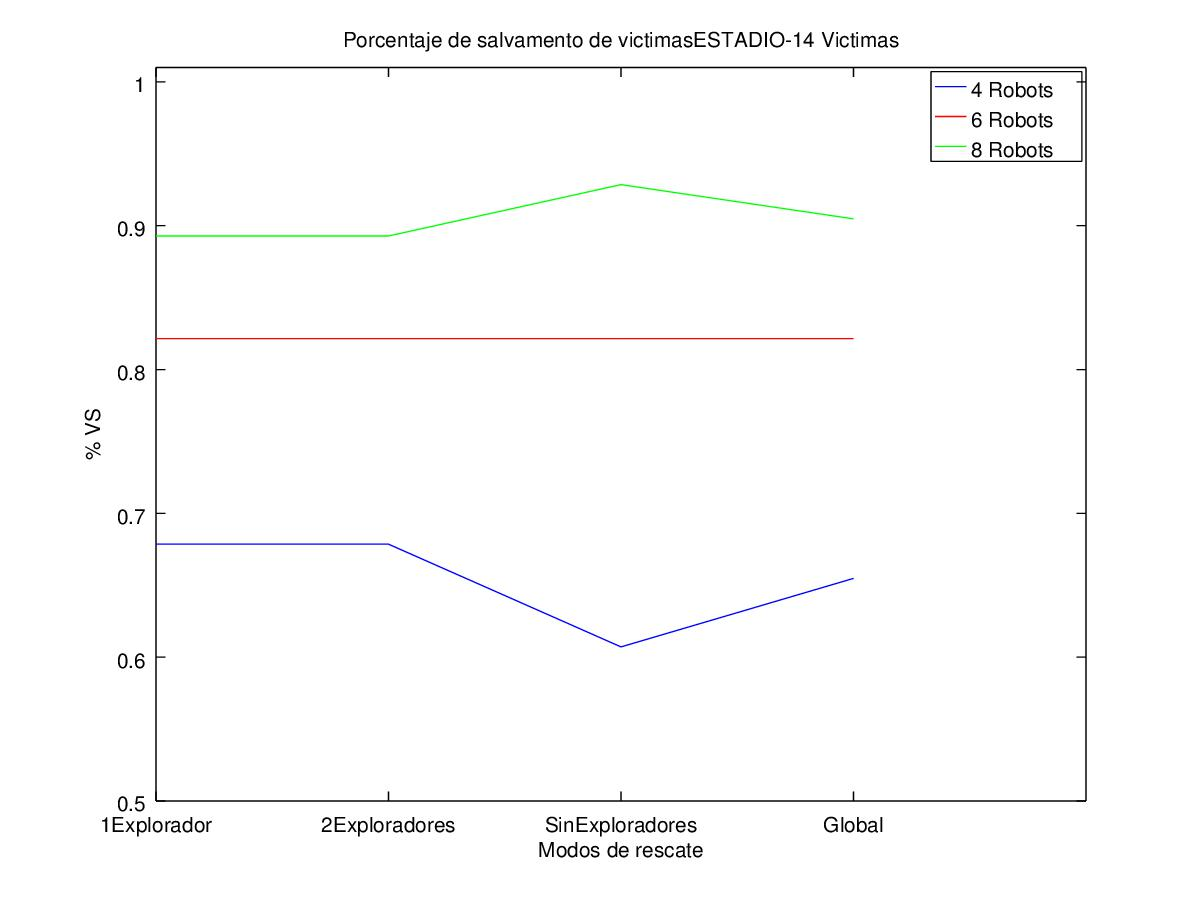
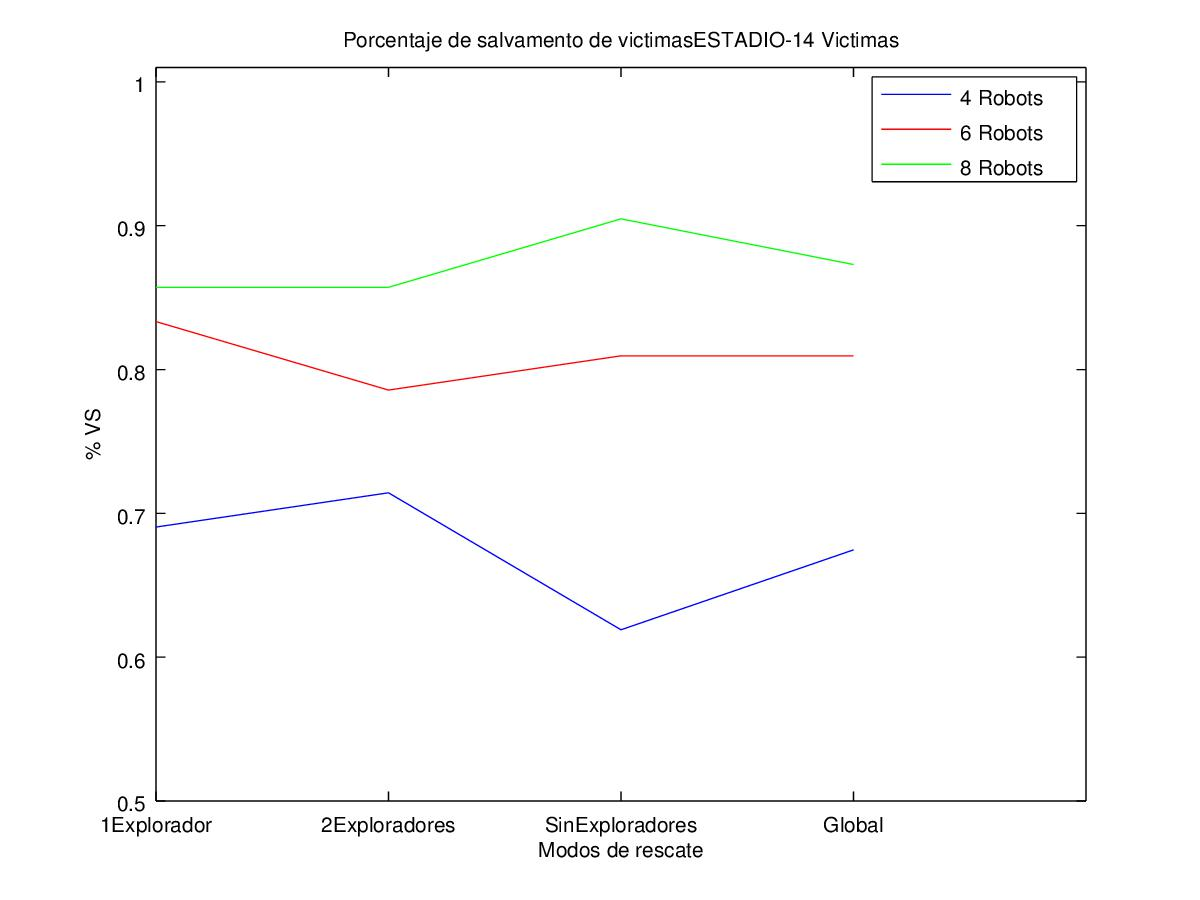
Finalizado desarrollo. Nuevas gráficas y metodos Octave

diff --git a/graficasTFG/generaGraficaTiempoMedioRescateVictimaVariandoVictimas.m b/graficasTFG/generaGraficaTiempoMedioRescateVictimaVariandoVictimas.m
@@ -1,4 +1,4 @@
-function [] = generaGraficaTiempoTotalSimulacionVariandoVictimas(escenarios,numFigure,numRobots,tipoEscenario,nvictims1,nvictims2,nvictims3)
+function [] = generaGraficaTiempoMedioRescateVictimaVariandoVictimas(escenarios,numFigure,numRobots,tipoEscenario,nvictims1,nvictims2,nvictims3)
 indices = [1,2,3,4];
 escenariosSeleccionados = {};
 j=1;
@@ -21,27 +21,27 @@ p38 = [];
 for i=1:length(escenariosSeleccionados)
   if escenariosSeleccionados{i}{3} == 1
     if escenariosSeleccionados{i}{2} == nvictims1
-      p14 = [p14 max(escenariosSeleccionados{i}{5}(:,3))];
+      p14 = [p14 mean(escenariosSeleccionados{i}{5}(:,3)-escenariosSeleccionados{i}{5}(:,2))];
     elseif escenariosSeleccionados{i}{2} == nvictims2
-      p16 = [p16 max(escenariosSeleccionados{i}{5}(:,3))];
+      p16 = [p16 mean(escenariosSeleccionados{i}{5}(:,3)-escenariosSeleccionados{i}{5}(:,2))];
     elseif escenariosSeleccionados{i}{2} == nvictims3
-      p18 = [p18 max(escenariosSeleccionados{i}{5}(:,3))];
+      p18 = [p18 mean(escenariosSeleccionados{i}{5}(:,3)-escenariosSeleccionados{i}{5}(:,2))];
     endif
   elseif escenariosSeleccionados{i}{3} == 2
     if escenariosSeleccionados{i}{2} == nvictims1
-      p24 = [p24 max(escenariosSeleccionados{i}{5}(:,3))];
+      p24 = [p24 mean(escenariosSeleccionados{i}{5}(:,3)-escenariosSeleccionados{i}{5}(:,2))];
     elseif escenariosSeleccionados{i}{2} == nvictims2
-      p26 = [p26 max(escenariosSeleccionados{i}{5}(:,3))];
+      p26 = [p26 mean(escenariosSeleccionados{i}{5}(:,3)-escenariosSeleccionados{i}{5}(:,2))];
     elseif escenariosSeleccionados{i}{2} == nvictims3
-      p28 = [p28 max(escenariosSeleccionados{i}{5}(:,3))];
+      p28 = [p28 mean(escenariosSeleccionados{i}{5}(:,3)-escenariosSeleccionados{i}{5}(:,2))];
     endif
   elseif escenariosSeleccionados{i}{3} == 3
    if escenariosSeleccionados{i}{2} == nvictims1
-      p34 = [p34 max(escenariosSeleccionados{i}{5}(:,3))];
+      p34 = [p34 mean(escenariosSeleccionados{i}{5}(:,3)-escenariosSeleccionados{i}{5}(:,2))];
     elseif escenariosSeleccionados{i}{2} == nvictims2
-      p36 = [p36 max(escenariosSeleccionados{i}{5}(:,3))];
+      p36 = [p36 mean(escenariosSeleccionados{i}{5}(:,3)-escenariosSeleccionados{i}{5}(:,2))];
     elseif escenariosSeleccionados{i}{2} == nvictims3
-      p38 = [p38 max(escenariosSeleccionados{i}{5}(:,3))];
+      p38 = [p38 mean(escenariosSeleccionados{i}{5}(:,3)-escenariosSeleccionados{i}{5}(:,2))];
     endif
   endif
 endfor
@@ -58,7 +58,7 @@ elseif tipoEscenario == 2
 elseif tipoEscenario == 3
  nombreEscenario = 'ESTADIO';
 endif
-title(strcat('Tiempo total simulacion ',nombreEscenario,'-',num2str(numRobots),' Robots'));
+title(strcat('Tiempo medio rescate victima',nombreEscenario,'-',num2str(numRobots),' Robots'));
 xlabel('Modos de rescate');
 ylabel('Tiempo(ms)');
 legend(strcat(num2str(nvictims1),' Victimas'),strcat(num2str(nvictims2),' Victimas'),strcat(num2str(nvictims3),' Victimas'));
@@ -67,6 +67,6 @@ set(gca,'xtick',indices);
 set(gca,'xticklabel',{'1Explorador','2Exploradores','SinExploradores','Global'});
 %clf();
 %surf(peaks);
-saveas(numFigure,strcat('TiempoTotalSimulacionVariandoVictimas',nombreEscenario,num2str(numRobots),'.jpg'));
+saveas(numFigure,strcat('TiempoMedioRescateVictimaVariandoVictimas',nombreEscenario,num2str(numRobots),'.jpg'));
 
 endfunction

diff --git a/graficasTFG/generaGraficaPromedioVictimasPorRobotVariandoVictimas.m b/graficasTFG/generaGraficaPromedioVictimasPorRobotVariandoVictimas.m
@@ -1,0 +1,72 @@
+function [] = generaGraficaPromedioVictimasPorRobotVariandoVictimas(escenarios,numFigure,numRobots,tipoEscenario,nvictimas1,nvictimas2,nvictimas3)
+indices = [1,2,3,4];
+escenariosSeleccionados = {};
+j=1;
+for i=1:length(escenarios)
+  if escenarios{i}{1} == numRobots && escenarios{i}{4} == tipoEscenario && (escenarios{i}{2} == nvictimas1 || escenarios{i}{2} == nvictimas2 || escenarios{i}{2} == nvictimas3)
+    escenariosSeleccionados{j} = escenarios{i};
+    j++;
+  endif
+endfor
+
+p14 = [];
+p16 = [];
+p18 = [];
+p24 = [];
+p26 = [];
+p28 = [];
+p34 = [];
+p36 = [];
+p38 = [];
+for i=1:length(escenariosSeleccionados)
+  if escenariosSeleccionados{i}{3} == 1
+    if escenariosSeleccionados{i}{2} == nvictimas1
+      p14 = [p14 escenariosSeleccionados{i}{2}/length(unique(escenariosSeleccionados{i}{5}(:,5)))];
+    elseif escenariosSeleccionados{i}{2} == nvictimas2
+      p16 = [p16 escenariosSeleccionados{i}{2}/length(unique(escenariosSeleccionados{i}{5}(:,5)))];
+    elseif escenariosSeleccionados{i}{2} == nvictimas3
+      p18 = [p18 escenariosSeleccionados{i}{2}/length(unique(escenariosSeleccionados{i}{5}(:,5)))];
+    endif
+  elseif escenariosSeleccionados{i}{3} == 2
+    if escenariosSeleccionados{i}{2} == nvictimas1
+      p24 = [p24 escenariosSeleccionados{i}{2}/length(unique(escenariosSeleccionados{i}{5}(:,5)))];
+    elseif escenariosSeleccionados{i}{2} == nvictimas2
+      p26 = [p26 escenariosSeleccionados{i}{2}/length(unique(escenariosSeleccionados{i}{5}(:,5)))];
+    elseif escenariosSeleccionados{i}{2} == nvictimas3
+      p28 = [p28 escenariosSeleccionados{i}{2}/length(unique(escenariosSeleccionados{i}{5}(:,5)))];
+    endif
+  elseif escenariosSeleccionados{i}{3} == 3
+    if escenariosSeleccionados{i}{2} == nvictimas1
+      p34 = [p34 escenariosSeleccionados{i}{2}/length(unique(escenariosSeleccionados{i}{5}(:,5)))];
+    elseif escenariosSeleccionados{i}{2} == nvictimas2
+      p36 = [p36 escenariosSeleccionados{i}{2}/length(unique(escenariosSeleccionados{i}{5}(:,5)))];
+    elseif escenariosSeleccionados{i}{2} == nvictimas3
+      p38 = [p38 escenariosSeleccionados{i}{2}/length(unique(escenariosSeleccionados{i}{5}(:,5)))];
+    endif
+  endif
+endfor
+
+pglobal1 = mean([mean(p14),mean(p24),mean(p34)]);
+pglobal2 = mean([mean(p16),mean(p26),mean(p36)]);
+pglobal3 = mean([mean(p18),mean(p28),mean(p38)]);
+figure(numFigure);
+plot(indices,[mean(p14) mean(p24) mean(p34) pglobal1], "b",indices,[mean(p16) mean(p26) mean(p36) pglobal2], "r",indices,[mean(p18) mean(p28) mean(p38) pglobal3], "g");
+if tipoEscenario == 1
+ nombreEscenario = 'CASA';
+elseif tipoEscenario == 2
+ nombreEscenario = 'LLANURA';
+elseif tipoEscenario == 3
+ nombreEscenario = 'ESTADIO';
+endif
+title(strcat('Promedio victimas por robot ',nombreEscenario,'-',num2str(numRobots),' Robots'));
+xlabel('Modos de rescate');
+ylabel('victimas/Robot');
+legend(strcat(num2str(nvictimas1),' Victimas'),strcat(num2str(nvictimas2),' Victimas'),strcat(num2str(nvictimas3),' Victimas'));
+%axis([1,5,0.5,1.01]);
+set(gca,'xtick',indices);
+set(gca,'xticklabel',{'1Explorador','2Exploradores','SinExploradores','Global'});
+%clf();
+%surf(peaks);
+saveas(numFigure,strcat('PromedioVictimasPorRobotVariandoVictimas',nombreEscenario,num2str(numRobots),'.jpg'));
+
+endfunction

diff --git a/graficasTFG/generaGraficaPorcentajeVariandoVictimas.m b/graficasTFG/generaGraficaPorcentajeVariandoVictimas.m
@@ -1,10 +1,10 @@
 function [] = generaGraficaPorcentajeVariandoVictimas(escenarios,numFigure,numRobots,tipoEscenario,nvictims1,nvictims2,nvictims3)
 indices = [1,2,3,4];
-escenariosCasa = {};
+escenariosSeleccionados = {};
 j=1;
 for i=1:length(escenarios)
   if escenarios{i}{1} == numRobots && escenarios{i}{4} == tipoEscenario && (escenarios{i}{2} == nvictims1 || escenarios{i}{2} == nvictims2 || escenarios{i}{2} == nvictims3)
-    escenariosCasa{j} = escenarios{i};
+    escenariosSeleccionados{j} = escenarios{i};
     j++;
   endif
 endfor
@@ -18,30 +18,30 @@ p28 = [];
 p34 = [];
 p36 = [];
 p38 = [];
-for i=1:length(escenariosCasa)
-  if escenariosCasa{i}{3} == 1
-    if escenariosCasa{i}{2} == nvictims1
-      p14 = [p14 sum(escenariosCasa{i}{5}(:,4))/escenariosCasa{i}{2}];
-    elseif escenariosCasa{i}{2} == nvictims2
-      p16 = [p16 sum(escenariosCasa{i}{5}(:,4))/escenariosCasa{i}{2}];
-    elseif escenariosCasa{i}{2} == nvictims3
-      p18 = [p18 sum(escenariosCasa{i}{5}(:,4))/escenariosCasa{i}{2}];
+for i=1:length(escenariosSeleccionados)
+  if escenariosSeleccionados{i}{3} == 1
+    if escenariosSeleccionados{i}{2} == nvictims1
+      p14 = [p14 sum(escenariosSeleccionados{i}{5}(:,4))/escenariosSeleccionados{i}{2}];
+    elseif escenariosSeleccionados{i}{2} == nvictims2
+      p16 = [p16 sum(escenariosSeleccionados{i}{5}(:,4))/escenariosSeleccionados{i}{2}];
+    elseif escenariosSeleccionados{i}{2} == nvictims3
+      p18 = [p18 sum(escenariosSeleccionados{i}{5}(:,4))/escenariosSeleccionados{i}{2}];
     endif
-  elseif escenariosCasa{i}{3} == 2
-    if escenariosCasa{i}{2} == nvictims1
-      p24 = [p24 sum(escenariosCasa{i}{5}(:,4))/escenariosCasa{i}{2}];
-    elseif escenariosCasa{i}{2} == nvictims2
-      p26 = [p26 sum(escenariosCasa{i}{5}(:,4))/escenariosCasa{i}{2}];
-    elseif escenariosCasa{i}{2} == nvictims3
-      p28 = [p28 sum(escenariosCasa{i}{5}(:,4))/escenariosCasa{i}{2}];
+  elseif escenariosSeleccionados{i}{3} == 2
+    if escenariosSeleccionados{i}{2} == nvictims1
+      p24 = [p24 sum(escenariosSeleccionados{i}{5}(:,4))/escenariosSeleccionados{i}{2}];
+    elseif escenariosSeleccionados{i}{2} == nvictims2
+      p26 = [p26 sum(escenariosSeleccionados{i}{5}(:,4))/escenariosSeleccionados{i}{2}];
+    elseif escenariosSeleccionados{i}{2} == nvictims3
+      p28 = [p28 sum(escenariosSeleccionados{i}{5}(:,4))/escenariosSeleccionados{i}{2}];
     endif
-  elseif escenariosCasa{i}{3} == 3
-   if escenariosCasa{i}{2} == nvictims1
-      p34 = [p34 sum(escenariosCasa{i}{5}(:,4))/escenariosCasa{i}{2}];
-    elseif escenariosCasa{i}{2} == nvictims2
-      p36 = [p36 sum(escenariosCasa{i}{5}(:,4))/escenariosCasa{i}{2}];
-    elseif escenariosCasa{i}{2} == nvictims3
-      p38 = [p38 sum(escenariosCasa{i}{5}(:,4))/escenariosCasa{i}{2}];
+  elseif escenariosSeleccionados{i}{3} == 3
+   if escenariosSeleccionados{i}{2} == nvictims1
+      p34 = [p34 sum(escenariosSeleccionados{i}{5}(:,4))/escenariosSeleccionados{i}{2}];
+    elseif escenariosSeleccionados{i}{2} == nvictims2
+      p36 = [p36 sum(escenariosSeleccionados{i}{5}(:,4))/escenariosSeleccionados{i}{2}];
+    elseif escenariosSeleccionados{i}{2} == nvictims3
+      p38 = [p38 sum(escenariosSeleccionados{i}{5}(:,4))/escenariosSeleccionados{i}{2}];
     endif
   endif
 endfor

diff --git a/graficasTFG/generaGraficaPorcentaje.m b/graficasTFG/generaGraficaPorcentaje.m
@@ -1,10 +1,10 @@
 function [] = generaGraficaPorcentaje(escenarios,numFigure,numVictimas,tipoEscenario,nrobots1,nrobots2,nrobots3)
 indices = [1,2,3,4];
-escenariosCasa = {};
+escenariosSeleccionados = {};
 j=1;
 for i=1:length(escenarios)
   if escenarios{i}{2} == numVictimas && escenarios{i}{4} == tipoEscenario
-    escenariosCasa{j} = escenarios{i};
+    escenariosSeleccionados{j} = escenarios{i};
     j++;
   endif
 endfor
@@ -18,30 +18,30 @@ p28 = [];
 p34 = [];
 p36 = [];
 p38 = [];
-for i=1:length(escenariosCasa)
-  if escenariosCasa{i}{3} == 1
-    if escenariosCasa{i}{1} == nrobots1
-      p14 = [p14 sum(escenariosCasa{i}{5}(:,4))/escenariosCasa{i}{2}];
-    elseif escenariosCasa{i}{1} == nrobots2
-      p16 = [p16 sum(escenariosCasa{i}{5}(:,4))/escenariosCasa{i}{2}];
-    elseif escenariosCasa{i}{1} == nrobots3
-      p18 = [p18 sum(escenariosCasa{i}{5}(:,4))/escenariosCasa{i}{2}];
+for i=1:length(escenariosSeleccionados)
+  if escenariosSeleccionados{i}{3} == 1
+    if escenariosSeleccionados{i}{1} == nrobots1
+      p14 = [p14 sum(escenariosSeleccionados{i}{5}(:,4))/escenariosSeleccionados{i}{2}];
+    elseif escenariosSeleccionados{i}{1} == nrobots2
+      p16 = [p16 sum(escenariosSeleccionados{i}{5}(:,4))/escenariosSeleccionados{i}{2}];
+    elseif escenariosSeleccionados{i}{1} == nrobots3
+      p18 = [p18 sum(escenariosSeleccionados{i}{5}(:,4))/escenariosSeleccionados{i}{2}];
     endif
-  elseif escenariosCasa{i}{3} == 2
-   if escenariosCasa{i}{1} == nrobots1
-      p24 = [p24 sum(escenariosCasa{i}{5}(:,4))/escenariosCasa{i}{2}];
-    elseif escenariosCasa{i}{1} == nrobots2
-      p26 = [p26 sum(escenariosCasa{i}{5}(:,4))/escenariosCasa{i}{2}];
-    elseif escenariosCasa{i}{1} == nrobots3
-      p28 = [p28 sum(escenariosCasa{i}{5}(:,4))/escenariosCasa{i}{2}];
+  elseif escenariosSeleccionados{i}{3} == 2
+   if escenariosSeleccionados{i}{1} == nrobots1
+      p24 = [p24 sum(escenariosSeleccionados{i}{5}(:,4))/escenariosSeleccionados{i}{2}];
+    elseif escenariosSeleccionados{i}{1} == nrobots2
+      p26 = [p26 sum(escenariosSeleccionados{i}{5}(:,4))/escenariosSeleccionados{i}{2}];
+    elseif escenariosSeleccionados{i}{1} == nrobots3
+      p28 = [p28 sum(escenariosSeleccionados{i}{5}(:,4))/escenariosSeleccionados{i}{2}];
     endif
-  elseif escenariosCasa{i}{3} == 3
-   if escenariosCasa{i}{1} == nrobots1
-      p34 = [p34 sum(escenariosCasa{i}{5}(:,4))/escenariosCasa{i}{2}];
-    elseif escenariosCasa{i}{1} == nrobots2
-      p36 = [p36 sum(escenariosCasa{i}{5}(:,4))/escenariosCasa{i}{2}];
-    elseif escenariosCasa{i}{1} == nrobots3
-      p38 = [p38 sum(escenariosCasa{i}{5}(:,4))/escenariosCasa{i}{2}];
+  elseif escenariosSeleccionados{i}{3} == 3
+   if escenariosSeleccionados{i}{1} == nrobots1
+      p34 = [p34 sum(escenariosSeleccionados{i}{5}(:,4))/escenariosSeleccionados{i}{2}];
+    elseif escenariosSeleccionados{i}{1} == nrobots2
+      p36 = [p36 sum(escenariosSeleccionados{i}{5}(:,4))/escenariosSeleccionados{i}{2}];
+    elseif escenariosSeleccionados{i}{1} == nrobots3
+      p38 = [p38 sum(escenariosSeleccionados{i}{5}(:,4))/escenariosSeleccionados{i}{2}];
     endif
   endif
 endfor

diff --git a/graficasTFG/script.m b/graficasTFG/script.m
@@ -9,7 +9,7 @@ escenarios{i} = readFile(file_name);
 files_name{i} = file_name;
 endfor
 
-files_name
+%files_name
 
 
 
@@ -31,8 +31,14 @@ generaGraficaPromedioVictimasPorRobot(escenarios,12,14,3,4,6,8);
 
 
 generaGraficaPorcentajeVariandoVictimas(escenarios,13,8,3,14,17,20);
-generaGraficaTiempoTotalSimulacionVariandoVictimas(escenarios,14,8,3,14,17,20);
+generaGraficaTiempoMedioRescateVictimaVariandoVictimas(escenarios,14,8,3,14,17,20);
+generaGraficaTiempoTotalSimulacionVariandoVictimas(escenarios,15,8,3,14,17,20);
+generaGraficaPromedioVictimasPorRobotVariandoVictimas(escenarios,16,8,3,14,17,20);
 
+generaGraficaPorcentajeVariandoVictimas(escenarios,17,4,1,10,15,20);
+generaGraficaTiempoMedioRescateVictimaVariandoVictimas(escenarios,18,4,1,10,15,20);
+generaGraficaTiempoTotalSimulacionVariandoVictimas(escenarios,19,4,1,10,15,20);
+generaGraficaPromedioVictimasPorRobotVariandoVictimas(escenarios,20,4,1,10,15,20);
 
 
 
